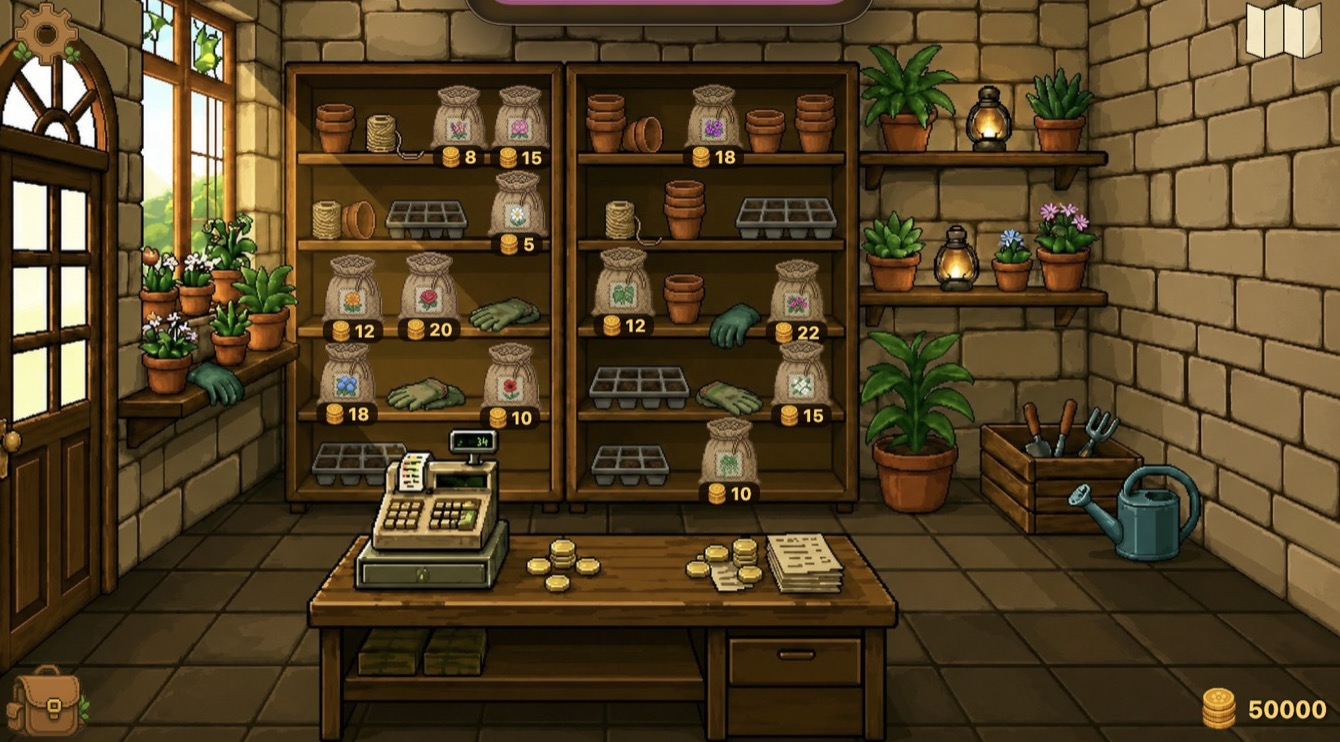
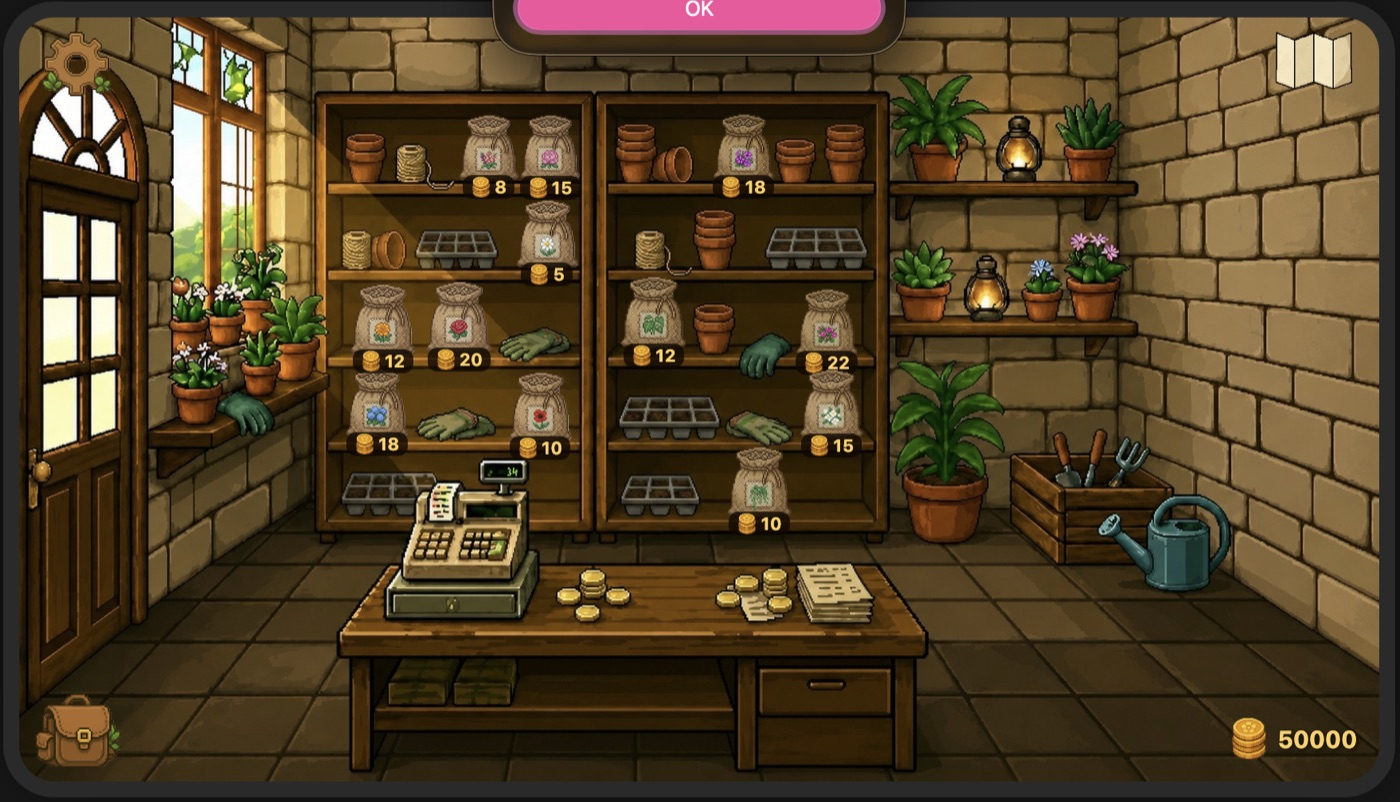
Revert "Crop Potted screenshot borders"
This reverts commit 0adcd8ca8b17cf9fde77420eaee0efca7ceedfdc.

diff --git a/styles.css b/styles.css
@@ -119,10 +119,10 @@ a:focus-visible{box-shadow:0 0 0 2px var(--paper),0 0 0 4px #6d56aa}
 @media(max-width:620px){.about-logo{width:155px;margin-left:-8px;margin-bottom:4px}}
 
 
-.potted-carousel{position:relative;border-radius:10px;overflow:hidden;background:#1d1a24;box-shadow:0 0 0 1px #e4dced,0 18px 44px #39294b1f;aspect-ratio:1340 / 747}
+.potted-carousel{position:relative;border-radius:10px;overflow:hidden;background:#1d1a24;box-shadow:0 0 0 1px #e4dced,0 18px 44px #39294b1f;aspect-ratio:1400 / 800}
 .carousel-track{display:flex;height:100%;transition:transform .55s cubic-bezier(.65,0,.25,1)}
 .carousel-slide{flex:0 0 100%;margin:0;height:100%}
-.carousel-slide img{display:block;width:100%;height:100%;object-fit:cover;transform:scale(1.03)}
+.carousel-slide img{display:block;width:100%;height:100%;object-fit:cover}
 .carousel-btn{position:absolute;top:50%;transform:translateY(-50%);width:40px;height:40px;border:0;border-radius:50%;background:#ffffffe6;color:#281f3b;font-size:24px;line-height:1;cursor:pointer;box-shadow:0 4px 14px #0003;opacity:0;transition:opacity .2s,background .2s}
 .potted-carousel:hover .carousel-btn,.carousel-btn:focus-visible{opacity:1}
 .carousel-btn:hover{background:#fff}
